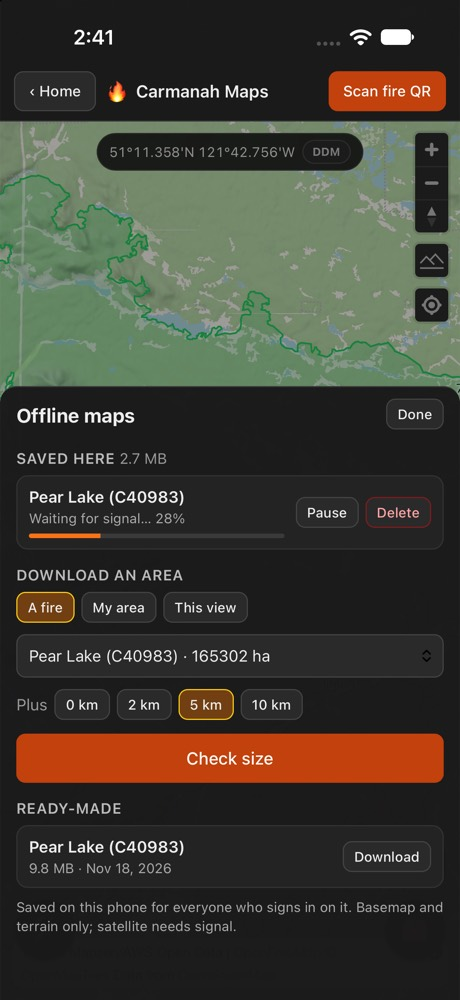
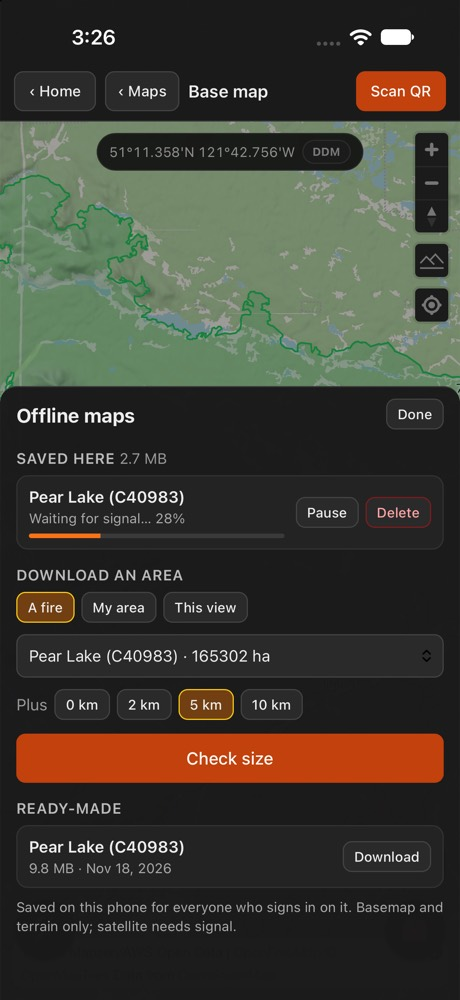
Offline areas from My Maps; pack protocol fetches only its own tile; review fixes
- My Maps: the Base map row lists its offline areas ("1 saved · 9.8 MB")
  and opens the base map with the Offline maps sheet (App → MapView
  openOfflineNonce). The map button stays.
- carmanah-pack:// checks that its fallback URL is the same OpenFreeMap or
  terrain tile before fetching anything (test added).
- The sheet's segment class is now .offline-seg (My Maps uses .seg).
- upload.ts points at hosting-r2.md §4 for the rclone remote.
- Doc screenshots retaken after merging My Maps (new header), plus the
  Base map row and the iOS offline view; browser and iOS simulator checks
  re-run on this merge, same results.

Changed region(s): [[0.1522, 0.031, 0.4261, 0.124], [0.7, 0.062, 0.8826, 0.124], [0.4565, 0.062, 0.5783, 0.124]]

diff --git a/src/components/MapsLibrary.tsx b/src/components/MapsLibrary.tsx
@@ -1,4 +1,4 @@
-import { memo, useCallback, useEffect, useMemo, useRef, useState, type ReactNode } from 'react'
+import { memo, useCallback, useEffect, useMemo, useRef, useState, useSyncExternalStore, type ReactNode } from 'react'
 import type { Position } from 'geojson'
 import { formatBytes } from '../lib/library/library'
 import { UNSORTED, type LibraryMap } from '../lib/library/types'
@@ -9,6 +9,8 @@ import { formatDistance } from '../lib/units'
 import { useUnitSettings } from '../hooks/useUnitSettings'
 import type { FileStore } from '../lib/storage/files'
 import { EMBEDDED } from '../lib/embedded'
+import { packRegistry } from '../lib/packs/registry'
+import { formatMB } from '../lib/packs/format'
 import './MapsLibrary.css'
 
 type Patch = Partial<Omit<LibraryMap, 'id'>>
@@ -36,6 +38,8 @@ interface MyMapsProps {
   onShare: (file: File) => void
   /** Re-draw an older single-image map as sharp tiles from its original. */
   onSharpen: (map: LibraryMap) => void
+  /** Open the base map with the Offline maps sheet (fire packs, docs/fire-packs.md). */
+  onOfflineAreas: () => void
 }
 
 const folderLabel = (folder: string) => folder || UNSORTED
@@ -63,6 +67,7 @@ export default function MyMaps({
   readOriginal,
   onShare,
   onSharpen,
+  onOfflineAreas,
 }: MyMapsProps) {
   const [filter, setFilter] = useState('')
   const [openId, setOpenId] = useState<string | null>(null)
@@ -196,6 +201,7 @@ export default function MyMaps({
           isCurrent={current.kind === 'base'}
           onOpen={() => onOpen({ kind: 'base' })}
           onSetBasemap={onSetBasemap}
+          onOfflineAreas={onOfflineAreas}
         />
 
         {maps.length > 0 && (
@@ -271,13 +277,26 @@ function BaseMapRow({
   isCurrent,
   onOpen,
   onSetBasemap,
+  onOfflineAreas,
 }: {
   basemap: Basemap
   satelliteOk: boolean
   isCurrent: boolean
   onOpen: () => void
   onSetBasemap: (b: Basemap) => void
+  onOfflineAreas: () => void
 }) {
+  // The offline areas (fire packs) saved on this phone, as Avenza lists a base map's downloads.
+  const offline = useSyncExternalStore(
+    (fn) => packRegistry.subscribe(fn),
+    () => {
+      const n = packRegistry.packs.length
+      const bytes = packRegistry.packs.reduce((s, p) => s + p.bytes, 0)
+      const partial = packRegistry.jobs.length
+      return n ? `${n} saved · ${formatMB(bytes)}${partial ? ` · ${partial} unfinished` : ''}` : partial ? `${partial} unfinished` : 'None saved yet'
+    },
+  )
+  useEffect(() => void packRegistry.load(), [])
   return (
     <div className={`map-row base-row${isCurrent ? ' current' : ''}`}>
       <div className="map-row-main">
@@ -302,6 +321,12 @@ function BaseMapRow({
           ))}
         </div>
       </div>
+      <button className="base-offline" onClick={onOfflineAreas}>
+        <span>
+          ⬇ Offline areas <span className="map-meta">{offline}</span>
+        </span>
+        <span aria-hidden>›</span>
+      </button>
     </div>
   )
 }

diff --git a/test/packs-download.test.ts b/test/packs-download.test.ts
@@ -287,6 +287,24 @@ describe('the map protocol', () => {
     expect(cache.get('openfreemap-tilejson')).toEqual(tj)
   })
 
+  it('never fetches anything but the same tile from its own server', async () => {
+    const t = await setup()
+    await t.registry.load()
+    const { handlePackRequest } = await import('../src/lib/packs/protocol')
+    const network = vi.fn(async () => new Response('x'))
+    const deps = { registry: t.registry, fetch: network as unknown as typeof fetch, getCache: async () => undefined, setCache: async () => {} }
+    const bad = [
+      `carmanah-pack://tile/basemap/14/1/2?u=${encodeURIComponent('https://evil.example/14/1/2.pbf')}`,
+      `carmanah-pack://tile/basemap/14/1/2?u=${encodeURIComponent('https://tiles.openfreemap.org/planet/b/14/9/9.pbf')}`,
+      `carmanah-pack://tile/terrain/14/1/2?u=${encodeURIComponent('https://tiles.openfreemap.org/planet/b/14/1/2.pbf')}`,
+    ]
+    for (const url of bad) await expect(handlePackRequest({ url }, new AbortController(), deps), url).rejects.toThrow(/bad pack tile fallback/)
+    expect(network).not.toHaveBeenCalled()
+    const good = `carmanah-pack://tile/terrain/12/1/2?u=${encodeURIComponent('https://s3.amazonaws.com/elevation-tiles-prod/terrarium/12/1/2.png')}`
+    await handlePackRequest({ url: good }, new AbortController(), deps)
+    expect(network).toHaveBeenCalledTimes(1)
+  })
+
   it('builds a TileJSON from the newest pack when nothing was ever saved', async () => {
     const t = await setup()
     const planned = await t.download.planCut(req, { url: `${BUCKET}basemap/bc/b1.pmtiles`, build: '20261115_080022_pt' }, { url: `${BUCKET}terrain/bc/v1.pmtiles` }, t.deps, undefined, READS)

diff --git a/native-harness/scripts/maps-driver.js b/native-harness/scripts/maps-driver.js
@@ -36,7 +36,14 @@
     try {
       await until(function () { return window.__map && window.__map.isStyleLoaded() }, 'map', 60000)
       var map = window.__map
+      // My Maps opens first: go to the base map (as a person would).
+      var openBase = function () {
+        var b = document.querySelector('button[aria-label="Open the base map"]')
+        if (b) b.click()
+      }
       if (cmd.step === 'download') {
+        openBase()
+        await sleep(800)
         map.jumpTo({ center: cmd.center, zoom: 9 })
         await sleep(2500)
         button('⬇ Offline maps').click()
@@ -54,10 +61,13 @@
         out.started = document.querySelector('.pack-list.saved .pack-meta').textContent
       } else if (cmd.step === 'resume') {
         await sleep(1500)
-        button('Saving') ? button('Saving').click() : button('⬇ Offline maps').click()
+        var entry = document.querySelector('.base-offline') || button('Saving') || button('⬇ Offline maps')
+        entry.click()
         await sleep(1500)
         out.rows = Array.prototype.map.call(document.querySelectorAll('.pack-list.saved .pack-row'), function (r) { return r.innerText })
       } else if (cmd.step === 'offline') {
+        openBase()
+        await sleep(800)
         out.views = []
         for (var i = 0; i < cmd.zooms.length; i++) {
           map.jumpTo({ center: cmd.center, zoom: cmd.zooms[i] })

diff --git a/src/App.tsx b/src/App.tsx
@@ -124,6 +124,8 @@ export default function App() {
   const satelliteOk = useSatelliteSignal(basemap === 'satellite')
   const shownBasemap = basemap === 'satellite' && !satelliteOk ? 'streets' : basemap
   const [searchNonce, setSearchNonce] = useState(0)
+  // My Maps → Base map → Offline areas: opens the Offline maps sheet over the base map.
+  const [offlineNonce, setOfflineNonce] = useState(0)
   const navTarget = userFeatures.find((f) => f.id === navTargetId) ?? null
   const nav = useNavigation(navTarget, (m, e) => showToastRef.current(m, e))
   useGeofences(userFeatures, (m) => showToastRef.current(`⚠ ${m}`, true))
@@ -731,6 +733,7 @@ export default function App() {
           onMapReady={setMainMap}
           basemap={viewer.basemapShown ? shownBasemap : 'none'}
           openSearchNonce={searchNonce}
+          openOfflineNonce={offlineNonce}
         />
 
         <button
@@ -851,6 +854,10 @@ export default function App() {
             readOriginal={maps.readOriginal}
             onShare={maps.shareFile}
             onSharpen={maps.sharpen}
+            onOfflineAreas={() => {
+              viewer.open({ kind: 'base' })
+              setOfflineNonce((n) => n + 1)
+            }}
           />
         )}
 

diff --git a/src/lib/packs/protocol.ts b/src/lib/packs/protocol.ts
@@ -128,9 +128,16 @@ export async function handlePackRequest(
   const m = PACK_URL.exec(params.url)
   if (!m) throw new Error(`bad pack URL: ${params.url}`)
   const [, source, z, x, y, encoded] = m
+  // The fallback must be the same tile on its own server: the protocol never
+  // fetches anything else, whatever URL it's handed.
+  const fallback = decodeURIComponent(encoded)
+  const own = tileOfUrl(fallback)
+  if (!own || own.source !== source || own.z !== +z || own.x !== +x || own.y !== +y) {
+    throw new Error(`bad pack tile fallback: ${fallback}`)
+  }
   const data = await deps.registry.tile(source as PackSource, +z, +x, +y)
   if (data) return { data }
-  const res = await deps.fetch(decodeURIComponent(encoded), { signal: abort.signal })
+  const res = await deps.fetch(fallback, { signal: abort.signal })
   if (!res.ok) throw new Error(`HTTP ${res.status}`)
   return { data: await res.arrayBuffer() }
 }

diff --git a/src/components/OfflineMapsSheet.tsx b/src/components/OfflineMapsSheet.tsx
@@ -305,7 +305,7 @@ export default function OfflineMapsSheet({ map, liveFires, userFeatures, native,
         {supported !== false && (
           <section>
             <h3>Download an area</h3>
-            <div className="seg" role="tablist">
+            <div className="offline-seg" role="tablist">
               {(
                 [
                   ['fire', 'A fire'],
@@ -347,7 +347,7 @@ export default function OfflineMapsSheet({ map, liveFires, userFeatures, native,
               ))}
             {choice === 'view' && <p className="offline-note">Everything on screen now.</p>}
 
-            <div className="seg" aria-label="Buffer">
+            <div className="offline-seg" aria-label="Buffer">
               <span className="muted">Plus</span>
               {BUFFERS.map((km) => (
                 <button key={km} className={`btn small${bufferKm === km ? ' active' : ''}`} onClick={() => setBufferKm(km)}>

diff --git a/src/map/MapView.tsx b/src/map/MapView.tsx
@@ -92,6 +92,8 @@ interface MapViewProps {
   basemap: Basemap
   /** Bump to open the coordinate search input (from the tools sheet). */
   openSearchNonce: number
+  /** Bump to open the Offline maps sheet (from My Maps → Base map). */
+  openOfflineNonce?: number
 }
 
 export default function MapView({
@@ -115,6 +117,7 @@ export default function MapView({
   onMapReady,
   basemap,
   openSearchNonce,
+  openOfflineNonce = 0,
 }: MapViewProps) {
   const containerRef = useRef<HTMLDivElement>(null)
   const mapRef = useRef<MlMap | null>(null)
@@ -259,6 +262,10 @@ export default function MapView({
     }
     setSearchResults(results.slice(0, 8))
   }
+
+  useEffect(() => {
+    if (openOfflineNonce > 0) setOfflineOpen(true)
+  }, [openOfflineNonce])
 
   // Downloads carry on after the sheet closes: say when one finishes, and
   // pick up any the app was in the middle of when it last closed.

diff --git a/src/components/MapsLibrary.css b/src/components/MapsLibrary.css
@@ -636,3 +636,30 @@
 .topbar .map-title {
   min-width: 0;
 }
+
+/* Base map row: its offline areas (fire packs), like Avenza's base-map downloads. */
+.base-offline {
+  display: flex;
+  align-items: center;
+  justify-content: space-between;
+  gap: 8px;
+  width: calc(100% - 74px);
+  margin: 0 12px 10px 62px;
+  padding: 8px 10px;
+  background: #232323;
+  border: 1px solid #333;
+  border-radius: 8px;
+  color: #eee;
+  font: inherit;
+  font-size: 13px;
+  text-align: left;
+  cursor: pointer;
+}
+
+.base-offline:active {
+  background: #303030;
+}
+
+.base-offline .map-meta {
+  margin-left: 6px;
+}

diff --git a/scripts/packs/upload.ts b/scripts/packs/upload.ts
@@ -32,7 +32,7 @@ function rclone(args: string[], inherit = false): string {
 function checkRemote(): void {
   const remotes = rclone(['listremotes']).split('\n').map((s) => s.trim())
   if (!remotes.includes(`${REMOTE}:`)) {
-    throw new Error(`No rclone remote "${REMOTE}". Set it up as in docs/hosting-r2.md §5 (or set R2_REMOTE).`)
+    throw new Error(`No rclone remote "${REMOTE}". Set it up as in docs/hosting-r2.md §4 (or set R2_REMOTE).`)
   }
 }
 

diff --git a/src/components/OfflineMapsSheet.css b/src/components/OfflineMapsSheet.css
@@ -99,7 +99,7 @@
   flex: none;
 }
 
-.seg {
+.offline-seg {
   display: flex;
   flex-wrap: wrap;
   align-items: center;

diff --git a/docs/fire-packs.md b/docs/fire-packs.md
@@ -213,13 +213,17 @@ someone over AirDrop.
 
 ## 5. In the app
 
-| Size before downloading (website) | Lost signal mid-download (iOS app) | Drawn with no network (website) |
-|---|---|---|
-| ![The Offline maps sheet: fire C40983 chosen with a 5 km buffer, "9.8 MB · 2,116 tiles", a Download button, and a ready-made pack below](fire-packs/web-size-before-download.jpg) | ![The sheet in the iOS app: "Waiting for signal… 28%" with Pause and Delete](fire-packs/ios-waiting-for-signal.jpg) | ![The fire area at zoom 9.5 with roads, lakes, hillshade and the fire perimeter, drawn while no internet host could be reached](fire-packs/web-offline-fire.jpg) |
+![My Maps: the Base map row, with "Offline areas: 1 saved · 9.8 MB" under it](fire-packs/my-maps-offline-areas.jpg)
 
-**Offline maps** (the button above the map's bottom-right corner, in the
-website and the crew app alike) opens a sheet with the packs on this phone
-and **Download an area**:
+| Size before downloading (website) | Lost signal mid-download (iOS app) | No network (website) | No network (iOS app) |
+|---|---|---|---|
+| ![The Offline maps sheet: fire C40983 chosen with a 5 km buffer, "9.8 MB · 2,116 tiles", a Download button, and a ready-made pack below](fire-packs/web-size-before-download.jpg) | ![The sheet in the iOS app: "Waiting for signal… 28%" with Pause and Delete](fire-packs/ios-waiting-for-signal.jpg) | ![The fire area at zoom 9.5 with roads, lakes, hillshade and the fire perimeter, drawn while no internet host could be reached](fire-packs/web-offline-fire.jpg) | ![The same area in the iOS app, on a page that can reach no http(s) host at all](fire-packs/ios-offline-fire.jpg) |
+
+**My Maps → Base map → Offline areas** (the line under the Base map row,
+with what's saved, as Avenza lists a base map's downloads) opens the base
+map with the Offline maps sheet. So does the **Offline maps** button above the
+map's bottom-right corner. Both work on the website and in the crew app. The
+sheet lists the packs on this phone and has **Download an area**:
 
 - **A fire**: a live BCWS fire perimeter (Layers → Live fires on), nearest
   to the map first.
